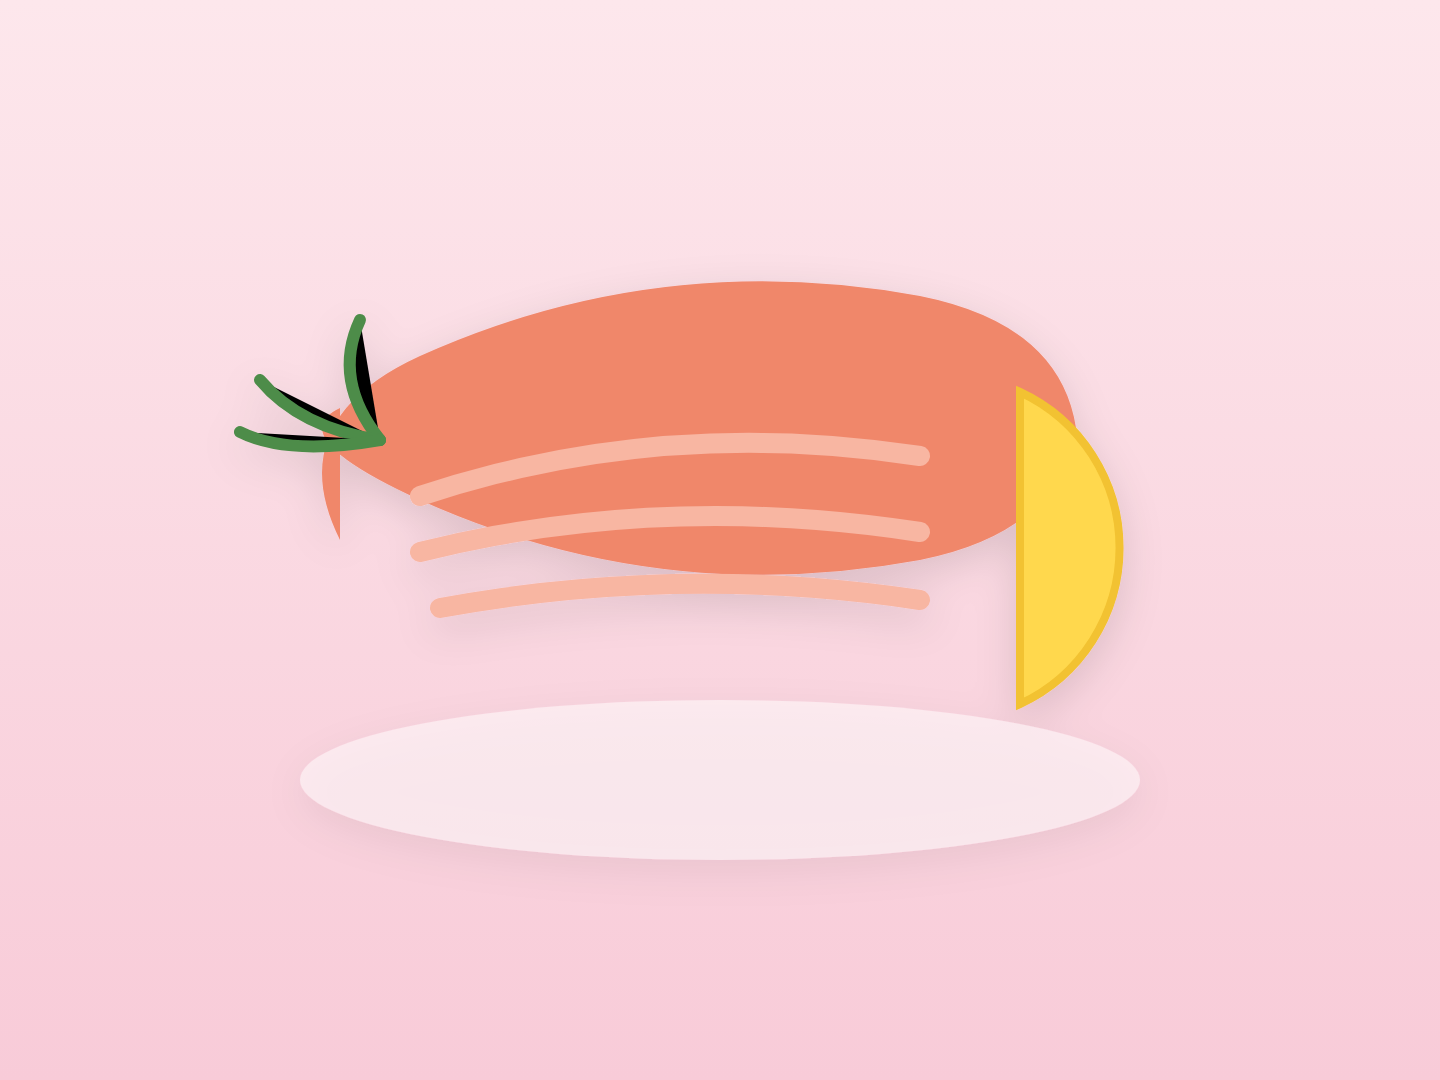
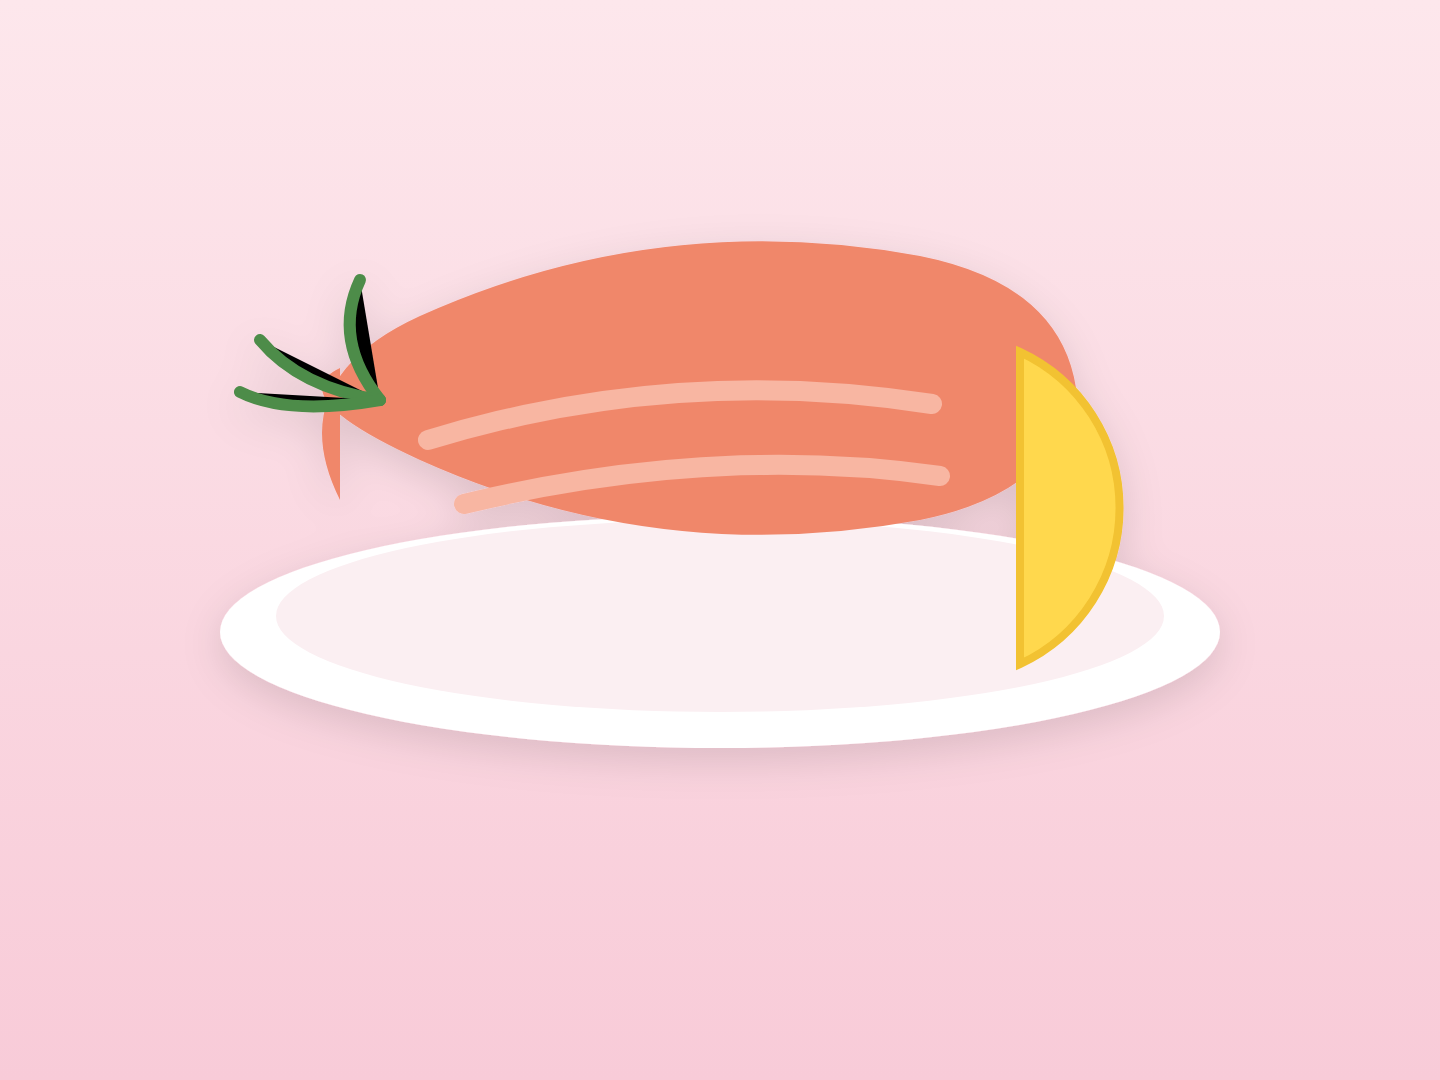
feat(demo): plate the salmon dinner art + show it on the Home wall
Rework the salmon meal illustration so the fillet rests on the plate
instead of floating above it (raised/widened plate, flake lines pulled
onto the body). Surface it on the Home dinner card by carrying an `img`
on the mock meal and no longer forcing it null in HomeScreen, so demo
instances (Mealie unconfigured) show a plated dinner.

Also add the annotated product-tour video (now with the unlocked Budget
demo numbers and a seeded Journal beat) and the chore-celebration clip
to the docs media kit.

Changed region(s): [[0.1562, 0.2139, 0.8438, 0.7333]]

diff --git a/app/src/lib/data/mock.js b/app/src/lib/data/mock.js
@@ -267,7 +267,7 @@ export const dashboard = {
     ],
     count: '8 items'
   },
-  meal: { slot: 'Dinner', dish: 'Sheet-pan salmon', detail: '6:30pm · 4 servings' }
+  meal: { slot: 'Dinner', dish: 'Sheet-pan salmon', detail: '6:30pm · 4 servings', img: '/demo/meals/salmon.png' }
 };
 
 // Budget: category budget/spent/left + a true-net total, matching the shape

diff --git a/app/src/lib/screens/HomeScreen.svelte b/app/src/lib/screens/HomeScreen.svelte
@@ -32,7 +32,7 @@
   // Gate the weather card on the first real fetch so we never flash mock values
   // (e.g. a wrong temp/city) before hydrating to the configured location.
   let wxLoaded = $state(false);
-  let meal = $state({ ...dashboard.meal, img: null, slug: null });
+  let meal = $state({ ...dashboard.meal, slug: null });
   // Runs on mount and again on every refresh heartbeat so the wall stays current.
   $effect(() => {
     refreshTick(); // re-run on each heartbeat